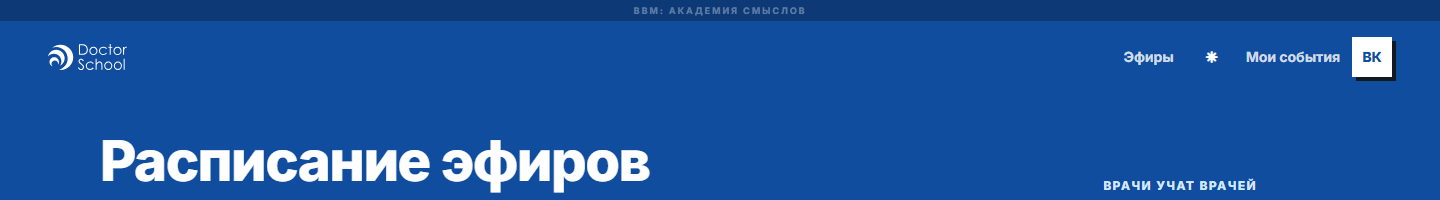
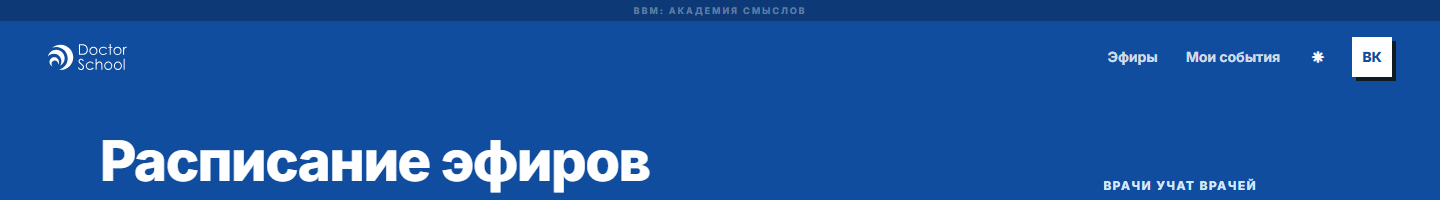
test(2243): drive the canvas order live and re-capture the academy renders
The desktop e2e case scoped the link to the auth cluster; it now reads it from
the nav group and asserts the painted left-to-right order on the live bar —
«Эфиры · Мои события · ☾ · Личный кабинет» — by bounding box, because the canvas
order is geometry, not DOM prose.

Driven on the LIVE_STAND academy tier against a portal started from this head
(3 passed). The four `ui-render-*` frames are re-captured at the same head; the
desktop pair is where the order actually moved, mobile-dark is byte-identical
because the `≡` menu already matched the canvas.

Refs #2243

Claude-Session: https://claude.ai/code/session_014ysWbYzWnzgJNXNzbEQVsS

Changed region(s): [[0.75, 0.24, 0.9375, 0.33]]

diff --git a/apps/portal/e2e/shell/doctor-header.spec.ts b/apps/portal/e2e/shell/doctor-header.spec.ts
@@ -55,22 +55,41 @@ test.describe("008 EARS-5/6 doctor header avatar icon → /account, no dropdown,
     await expect(page).toHaveURL(/\/account$/);
   });
 
-  test("008 EARS-5: the signed-in cluster carries «Мои события» → /account/events on the desktop bar", async ({
+  test("008 EARS-5: the desktop bar carries «Мои события» → /account/events, in canvas order", async ({
     page,
   }) => {
-    // #2243 — the canvas draws this link inside the auth cluster
+    // #2243 — the canvas draws this link inside the NAV GROUP
     // (`design-source/ds-shell.dc.html`, `user.links` line 209, rendered at
-    // line 33). It vanished when this storefront moved onto the shared chrome.
+    // line 33), after the nav items and before the theme control (line 35) and
+    // the chip (line 36). It vanished when this storefront moved onto the
+    // shared chrome, and came back one slot too far right.
     await provisionLoggedInDoctor(page);
     await page.setViewportSize({ width: 1440, height: 900 });
     await page.goto("/", { waitUntil: "domcontentloaded" });
 
-    const cluster = page.getByTestId("shell-auth-cluster");
-    await expect(cluster).toHaveAttribute("data-cluster", "doctor");
-    const link = cluster.getByTestId("shell-auth-link");
+    await expect(page.getByTestId("shell-auth-cluster")).toHaveAttribute(
+      "data-cluster",
+      "doctor",
+    );
+    const link = page
+      .getByTestId("shell-nav-desktop")
+      .getByTestId("shell-auth-link");
     await expect(link).toBeVisible();
     await expect(link).toHaveText(MY_EVENTS_LABEL);
     await expect(link).toHaveAttribute("href", MY_EVENTS_HREF);
+
+    // The canvas order is GEOMETRY, so assert it on the painted bar:
+    // «Эфиры · Мои события · ☾ · Личный кабинет», left to right.
+    const x = async (locator) => (await locator.boundingBox()).x;
+    const navItem = page
+      .getByTestId("shell-nav-desktop")
+      .getByRole("link")
+      .first();
+    expect(await x(navItem)).toBeLessThan(await x(link));
+    expect(await x(link)).toBeLessThan(await x(page.getByTestId("theme-toggle")));
+    expect(await x(page.getByTestId("theme-toggle"))).toBeLessThan(
+      await x(page.getByTestId("shell-avatar")),
+    );
 
     // It really navigates, and the page it lands on is the right one — the h1,
     // not just the URL.
